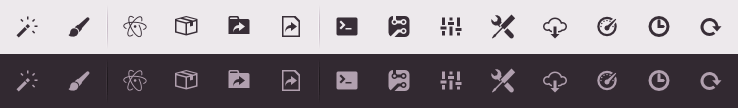
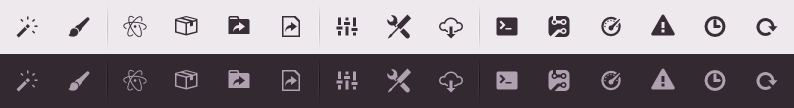
add Deprecation Cop button

diff --git a/README.md b/README.md
@@ -55,18 +55,20 @@ Buttons from left to right:
 * Open Packages Folder²
 * Open Project Folder(s)²
 * Reveal File²
-* Toggle Developer Tools
-* Open in Dev Mode
 * Show Settings
 * Open Your Config
 * Update Packages/Themes
-* View Timecop³
+* Toggle Developer Tools
+* Open in Dev Mode
+* Timecop³
+* Deprecation Cop⁴
 * Run Package Specs
 * Reload Window
 
 ¹⁾ provided by [package-generator](https://atom.io/packages/package-generator)  
 ²⁾ provided by [browse](https://atom.io/packages/browse)  
 ³⁾ provided by [timecop](https://atom.io/packages/timecop)  
+⁴⁾ provided by [deprecation-cop](https://atom.io/packages/deprecation-cop)  
 
 ## License
 
